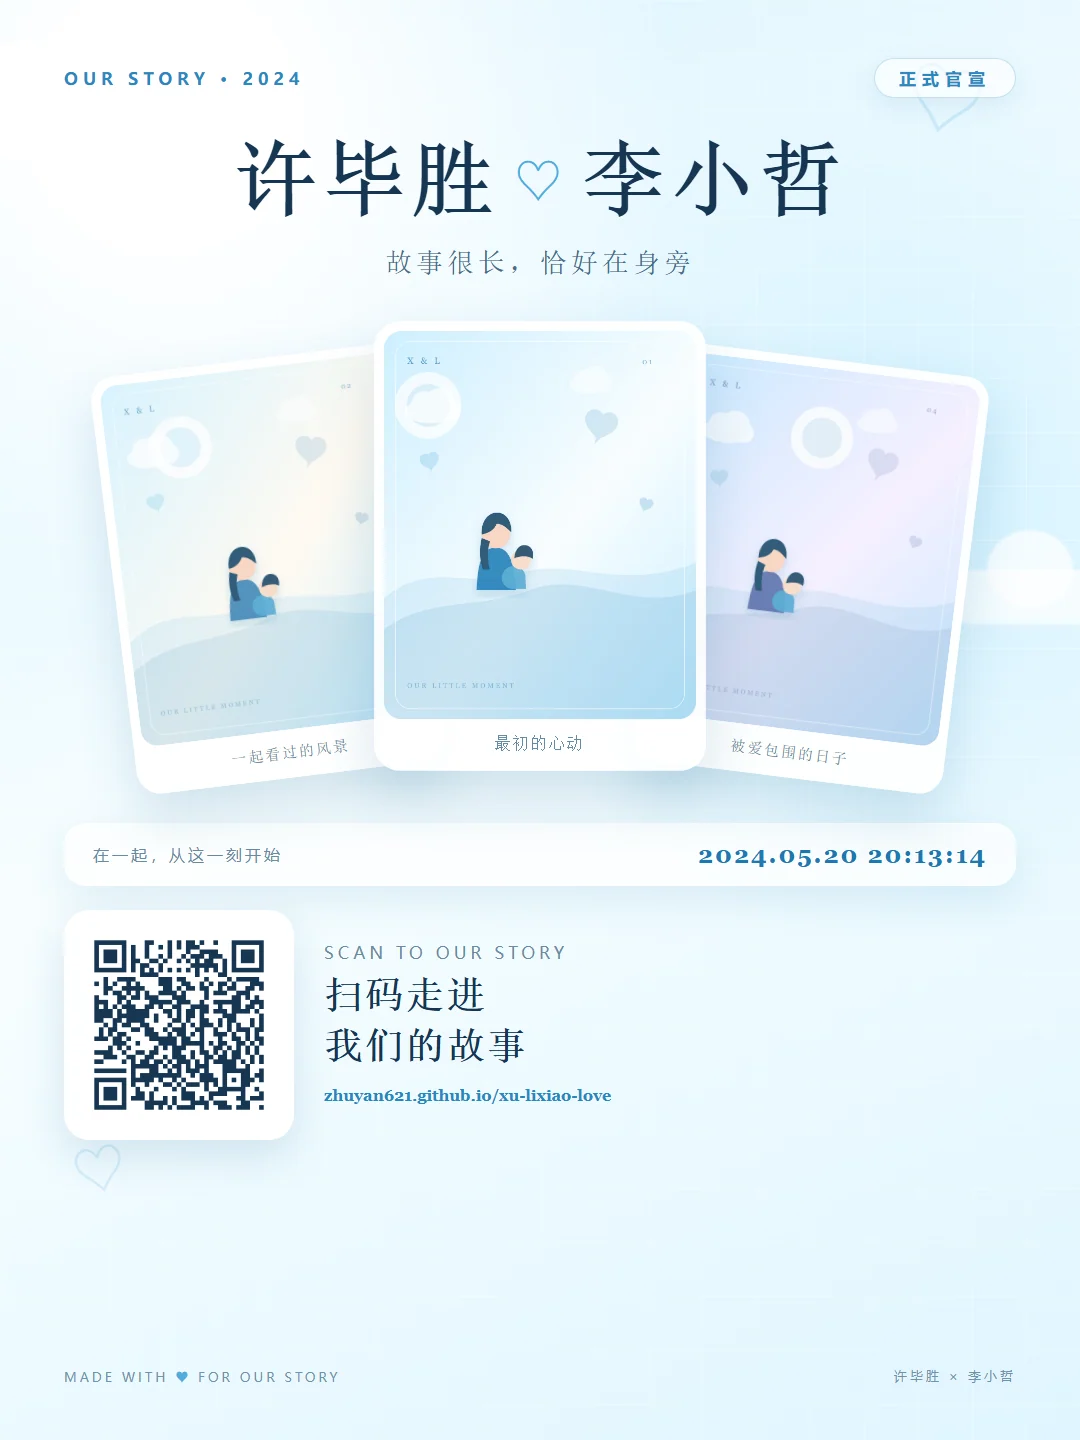
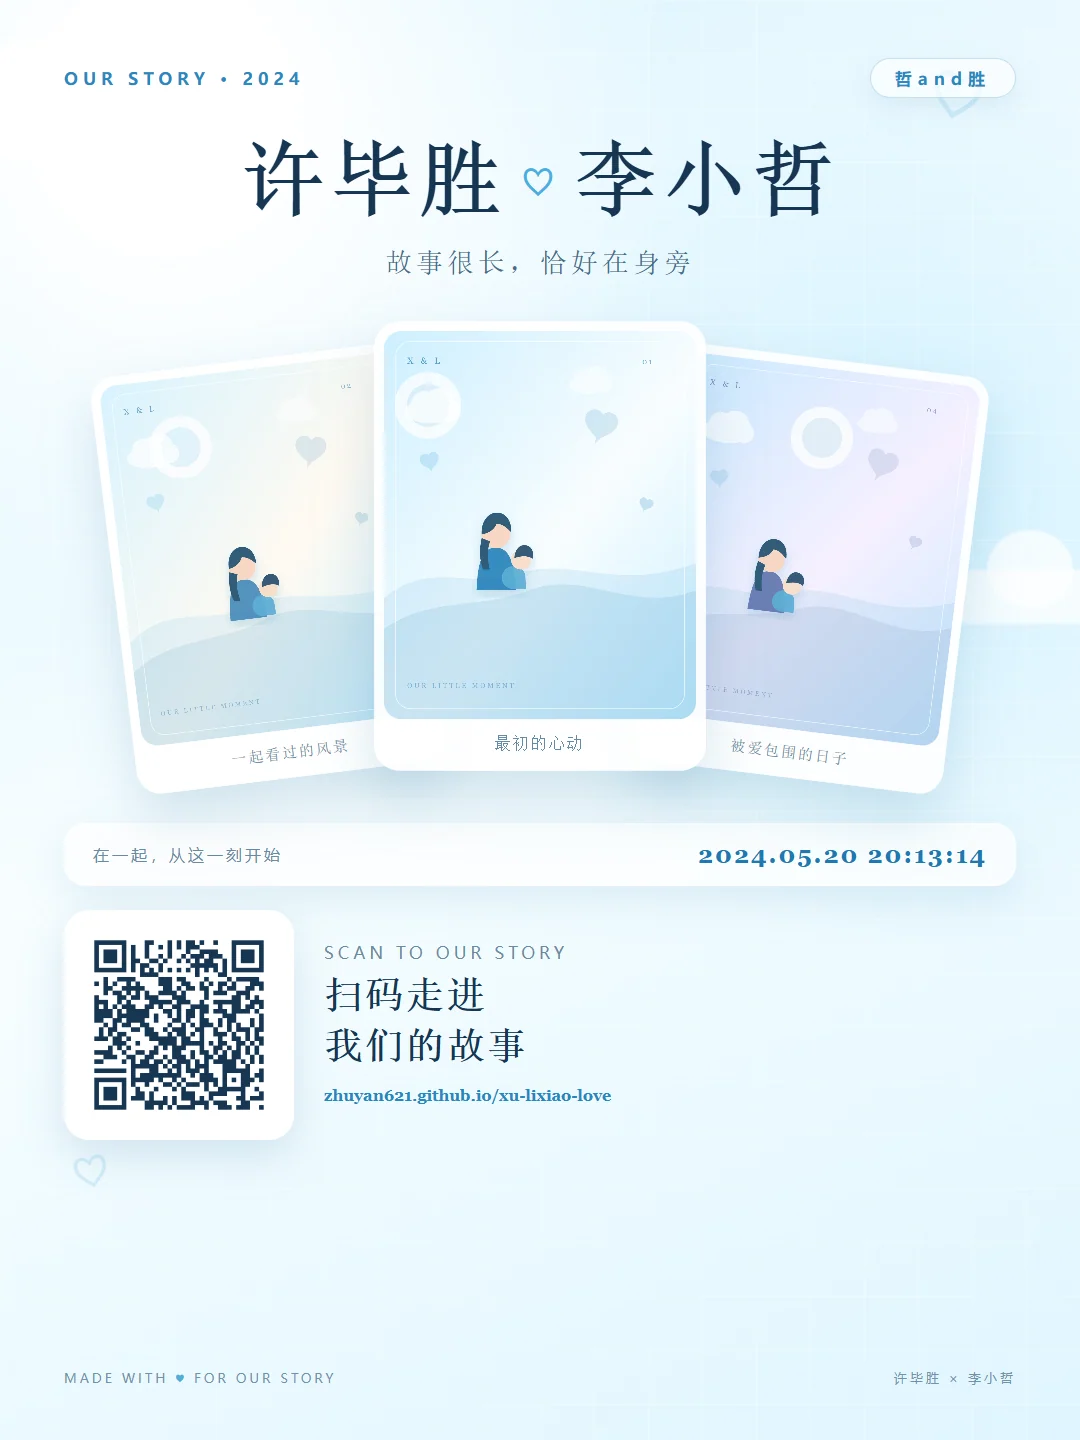
Update copy, entry wording, and add cute decorations

diff --git a/index.html b/index.html
@@ -7,11 +7,11 @@
   <meta name="color-scheme" content="light">
   <meta name="description" content="许毕胜与李小哲的官宣纪念页。从 2024 年 5 月 20 日 20:13:14 开始，我们的故事一直在继续。">
   <meta property="og:type" content="website">
-  <meta property="og:title" content="许毕胜 ♡ 李小哲｜正式官宣">
+  <meta property="og:title" content="许毕胜 ♡ 李小哲｜哲and胜">
   <meta property="og:description" content="从 2024.05.20 20:13:14 开始，我们的故事一直在继续。">
   <meta property="og:url" content="https://zhuyan621.github.io/xu-lixiao-love/">
   <meta property="og:image" content="https://zhuyan621.github.io/xu-lixiao-love/assets/share-preview.webp">
-  <title>许毕胜 ♡ 李小哲｜正式官宣</title>
+  <title>许毕胜 ♡ 李小哲｜哲and胜</title>
   <link rel="icon" href="assets/favicon.svg" type="image/svg+xml">
   <link rel="stylesheet" href="styles.css">
 </head>
@@ -27,29 +27,27 @@
 
   <div class="entry-gate" id="entry-gate" role="dialog" aria-modal="true" aria-labelledby="entry-title">
     <div class="entry-card">
-      <div class="entry-monogram" aria-hidden="true">许 <span>♡</span> 李</div>
+      <div class="entry-monogram" aria-hidden="true">哲 <span>♡</span> 胜</div>
       <p class="entry-kicker">OUR STORY BEGINS</p>
-      <h2 id="entry-title">有一段故事，想讲给你听</h2>
-      <p class="entry-copy">轻触进入，一起见证许毕胜和李小哲的故事。</p>
+      <h2 id="entry-title">特别的人</h2>
+      <p class="entry-copy">第一and唯一</p>
       <button class="entry-button" id="enter-story" type="button">
-        <span>轻触开启我们的故事</span>
+        <span>我们的故事</span>
         <svg viewBox="0 0 24 24" aria-hidden="true"><path d="M5 12h13M13 7l5 5-5 5"/></svg>
       </button>
-      <p class="entry-music-note" id="entry-music-note">进入后将尝试播放《特别的人》</p>
-    </div>
+          </div>
   </div>
 
   <div class="page" id="page">
     <header class="hero section">
       <div class="hero-halo" aria-hidden="true"></div>
-      <p class="eyebrow reveal">OUR STORY · EST. 2024</p>
-      <div class="official-pill reveal">正式官宣</div>
-      <h1 class="names reveal">
+      <p class="eyebrow reveal">哲and胜</p>
+            <h1 class="names reveal">
         <span>许毕胜</span>
         <i aria-label="和">♡</i>
         <span>李小哲</span>
       </h1>
-      <p class="hero-copy reveal">今天，想把我们的故事<br class="mobile-break">告诉全世界</p>
+      <p class="hero-copy reveal">你就是我想遇见的特别的人</p>
 
       <section class="timer-card reveal" aria-labelledby="timer-title">
         <p class="timer-title" id="timer-title">我们已经相爱</p>
@@ -88,7 +86,7 @@
           <h2>故事有了一个<br><em>很温柔的名字</em></h2>
           <blockquote>“原来喜欢一个人，是四季都有了具体的名字。”</blockquote>
           <p>从一句晚安，到每一次见面；从人海里的相遇，到决定牵着手走向更远的地方。</p>
-          <p>今天就不藏啦。许毕胜和李小哲，正式官宣。</p>
+          <p>今天就不藏啦。许毕胜和李小哲，想把这份幸福分享给你。</p>
           <div class="story-seal" aria-hidden="true">
             <span>2024</span>
             <i></i>

diff --git a/styles.css b/styles.css
@@ -192,3 +192,13 @@ body.entered .entry-gate { visibility:hidden; opacity:0; pointer-events:none; }
 
 .qr-image-wrap img { height: auto; aspect-ratio: 1; }
 
+
+.hero::after { content:"✧"; position:absolute; top:23%; right:11%; color:rgba(66,158,203,.34); font-size:1.35rem; pointer-events:none; animation:twinkle 3.2s ease-in-out infinite; }
+.story-card::before { content:"✦"; position:absolute; top:28px; right:30px; color:rgba(66,158,203,.3); font-size:1.15rem; pointer-events:none; animation:twinkle 3.8s ease-in-out infinite reverse; }
+.timer-card::after { content:"· ✦ ·"; position:absolute; top:-12px; right:24px; color:rgba(66,158,203,.38); font-size:.8rem; letter-spacing:.15em; pointer-events:none; animation:twinkle 4.4s ease-in-out infinite; }
+.photos::before { content:"✧"; position:absolute; top:19%; left:7%; color:rgba(66,158,203,.3); font-size:1.05rem; pointer-events:none; animation:twinkle 4.2s ease-in-out infinite; }
+.photos::after { content:"♡"; position:absolute; bottom:11%; right:6%; color:rgba(96,180,220,.28); font-size:1.35rem; pointer-events:none; animation:heart-bob 5s ease-in-out infinite; }
+.letter-card::after { content:"✦ ✦"; position:absolute; top:25px; right:30px; color:rgba(66,158,203,.28); font-size:.92rem; letter-spacing:.35em; pointer-events:none; animation:twinkle 4.8s ease-in-out infinite; }
+.ending::before { content:"♡ ♡"; position:absolute; top:7%; left:13%; color:rgba(96,180,220,.26); font-size:1.2rem; letter-spacing:.4em; pointer-events:none; animation:heart-bob 5.6s ease-in-out infinite reverse; }
+@keyframes twinkle { 0%,100% { opacity:.25; transform:scale(.92) rotate(-4deg); } 50% { opacity:.7; transform:scale(1.14) rotate(6deg); } }
+@keyframes heart-bob { 0%,100% { transform:translateY(0) rotate(-6deg); } 50% { transform:translateY(-10px) rotate(8deg); } }

diff --git a/app.js b/app.js
@@ -15,7 +15,6 @@ const entryGate = document.getElementById("entry-gate");
 const enterButton = document.getElementById("enter-story");
 const music = document.getElementById("background-music");
 const musicToggle = document.getElementById("music-toggle");
-const musicNote = document.getElementById("entry-music-note");
 const carousel = document.getElementById("photo-carousel");
 const track = carousel.querySelector(".photo-track");
 const cards = Array.from(document.querySelectorAll(CONFIG.photoSelector));
@@ -135,14 +134,10 @@ function probeMusic() {
         music.load();
       }
       musicToggle.hidden = !musicAvailable;
-      musicNote.textContent = musicAvailable
-        ? "进入后将尝试播放《特别的人》"
-        : "放入《特别的人》音频后，专属旋律会自动开启";
     })
     .catch(() => {
       musicAvailable = false;
       musicToggle.hidden = true;
-      musicNote.textContent = "放入《特别的人》音频后，专属旋律会自动开启";
     });
 }
 
